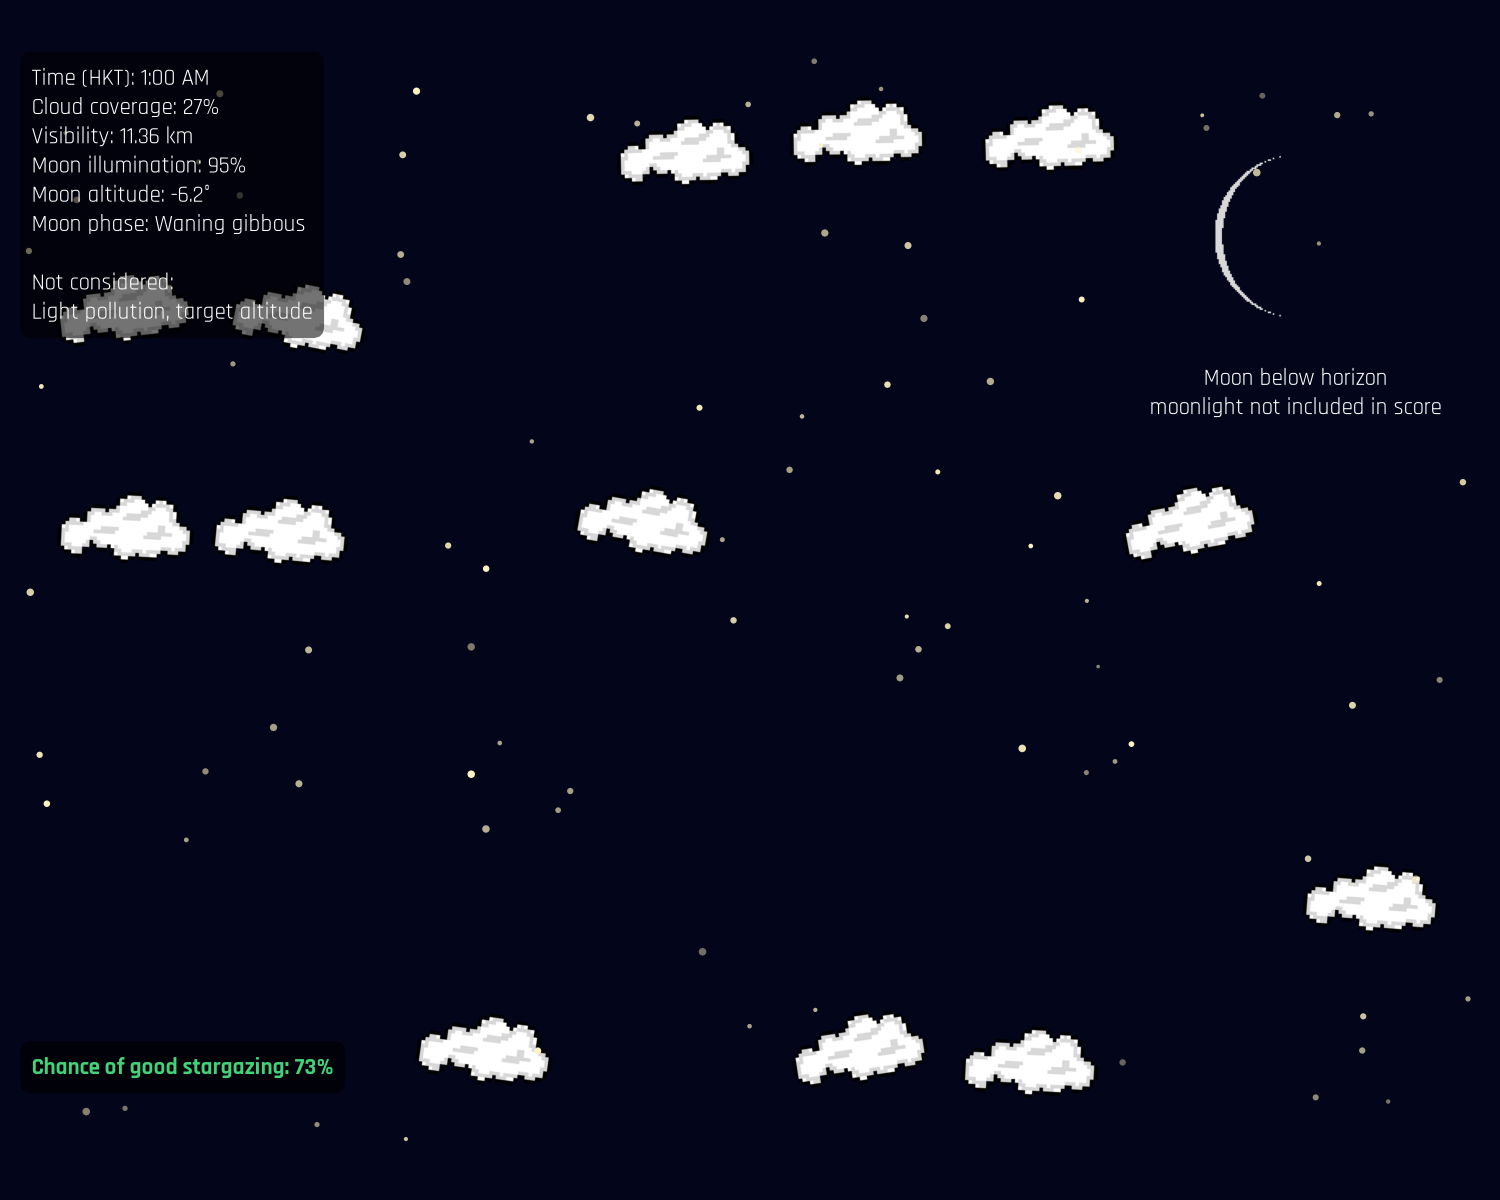
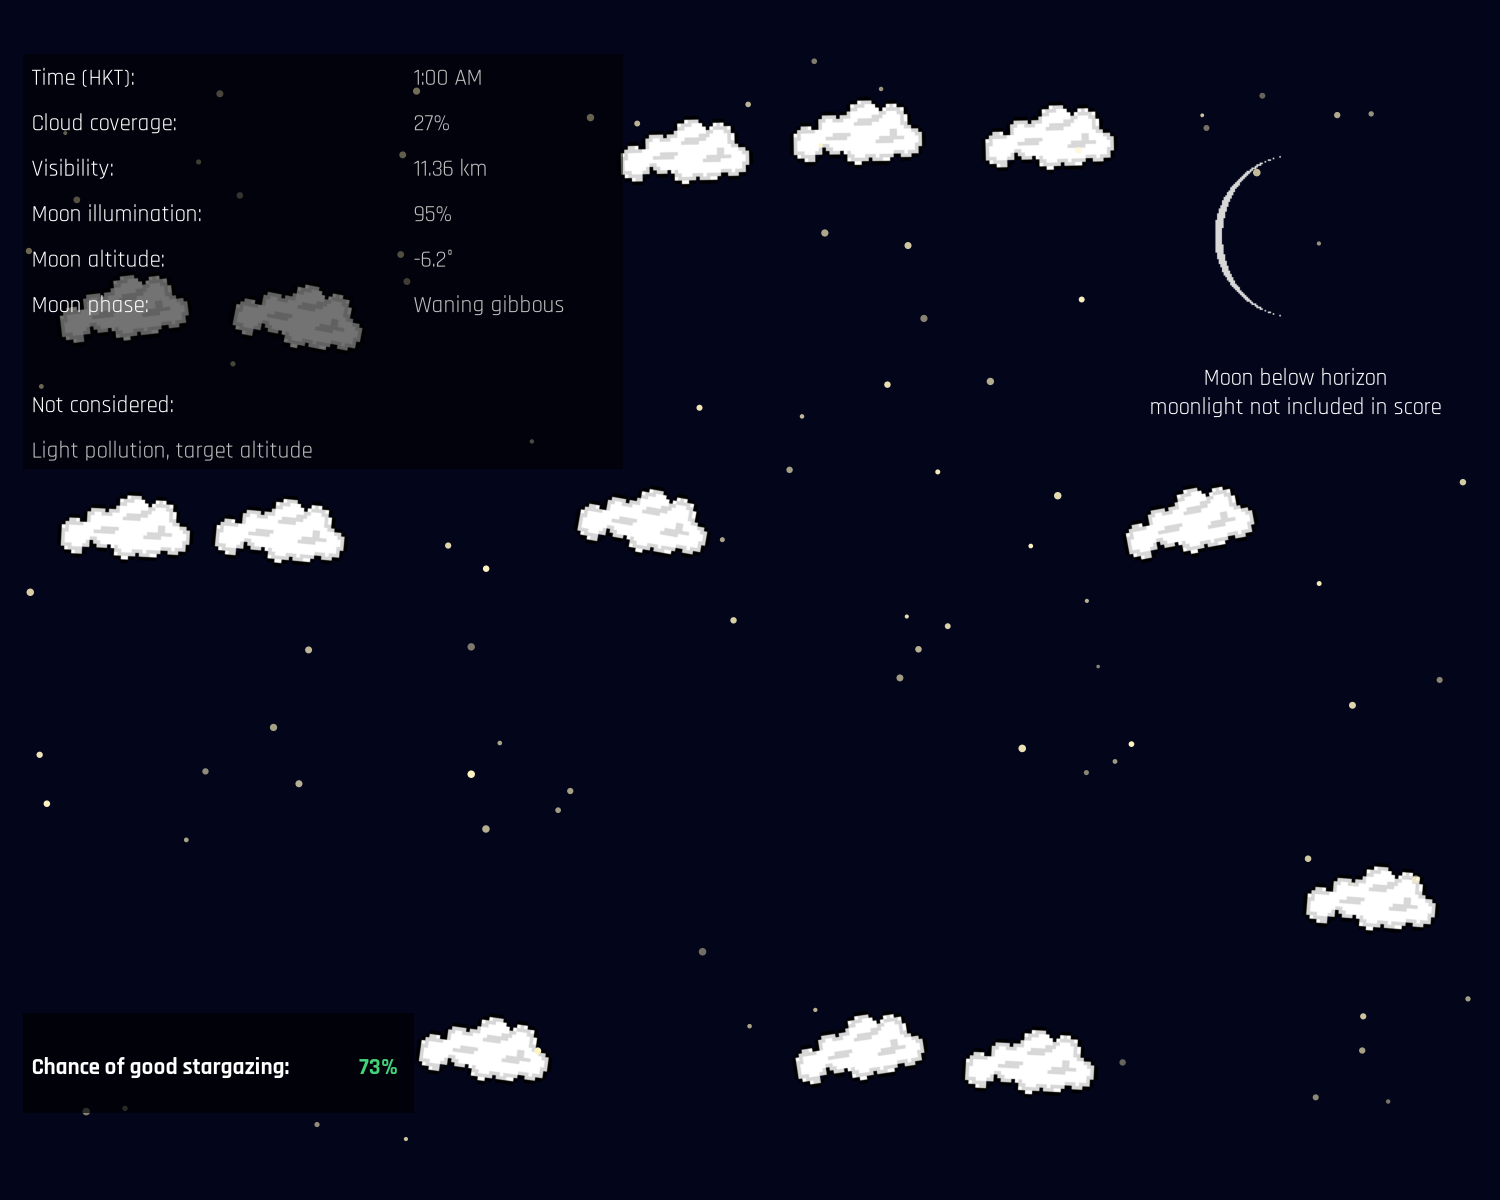
Adjusted text color and alignment to increase readability

diff --git a/plot.py b/plot.py
@@ -22,7 +22,7 @@ from pathlib import Path
 import matplotlib.pyplot as plt
 from matplotlib import font_manager
 from matplotlib.image import imread
-from matplotlib.patches import Circle
+from matplotlib.patches import Circle, Rectangle
 from matplotlib.transforms import Affine2D
 import numpy as np
 from fetch import FILE
@@ -122,7 +122,7 @@ def main():
     ax.text(moon_x, moon_y - 0.7,
             "Visible" if moon_altitude > 0
             else "Moon below horizon\nmoonlight not included in score",
-            ha="center", va="top", fontsize=11, color="white")
+            ha="center", va="top", fontsize=11, color="#ffffff")
     cloud = imread(SPRITE)
     variation = random.Random(42)
     positions = [(x, y) for x in range(8) for y in range(6)]
@@ -139,24 +139,35 @@ def main():
                          + ax.transData)
             ax.imshow(cloud, extent=(left, left + 1, bottom, bottom + 1),
                       transform=transform)
-    ax.text(0.05, 5.95,
-            f"Time ({TIMEZONE}): {readable_time}\n"
-            f"Cloud coverage: {cloud_coverage:.0f}%\n"
-            f"Visibility: {visibility}\n"
-            f"Moon illumination: {moon_illumination:.0f}%\n"
-            f"Moon altitude: {moon_altitude:.1f}°\n"
-            f"Moon phase: {first['moon_name']}\n\n"
-            "Not considered:\n"
-            "Light pollution, target altitude",
-            ha="left", va="top", fontsize=11, color="white",
-            bbox=dict(facecolor="black", alpha=0.55, edgecolor="none",
-                      boxstyle="round,pad=0.5"))
+    ax.add_patch(Rectangle((-0.05, 3.72), 3.35, 2.48,
+                           facecolor="black", alpha=0.55, edgecolor="none"))
+    info_rows = (
+        (f"Time ({TIMEZONE})", readable_time),
+        ("Cloud coverage", f"{cloud_coverage:.0f}%"),
+        ("Visibility", visibility),
+        ("Moon illumination", f"{moon_illumination:.0f}%"),
+        ("Moon altitude", f"{moon_altitude:.1f}°"),
+        ("Moon phase", first["moon_name"]),
+    )
+    for row, (label, value) in enumerate(info_rows):
+        y = 5.95 - row * 0.25
+        ax.text(0.05, y, f"{label}:", ha="left", va="top",
+                fontsize=11, color="#ffffff")
+        ax.text(2.15, y, value, ha="left", va="top",
+                fontsize=11, color="#bfbfbf")
+    ax.text(0.05, 4.15, "Not considered:",
+            ha="left", va="top", fontsize=11, color="#ffffff")
+    ax.text(0.05, 3.9, "Light pollution, target altitude",
+            ha="left", va="top", fontsize=11, color="#bfbfbf")
     score_color = "#43d17a" if stargaze_score >= 50 else "#ff5c5c"
-    ax.text(0.05, 0.35, f"Chance of good stargazing: {stargaze_score:.0f}%",
+    ax.add_patch(Rectangle((-0.05, 0.18), 2.2, 0.55,
+                           facecolor="black", alpha=0.65, edgecolor="none"))
+    ax.text(0.05, 0.35, "Chance of good stargazing:",
             ha="left", va="bottom", fontsize=11, fontweight="bold",
-            color=score_color,
-            bbox=dict(facecolor="black", alpha=0.65, edgecolor="none",
-                      boxstyle="round,pad=0.5"))
+            color="#ffffff")
+    ax.text(1.85, 0.35, f"{stargaze_score:.0f}%",
+            ha="left", va="bottom", fontsize=11, fontweight="bold",
+            color=score_color)
     ax.set_xlim(0, 8)
     ax.set_ylim(0, 6)
     ax.axis("off")
